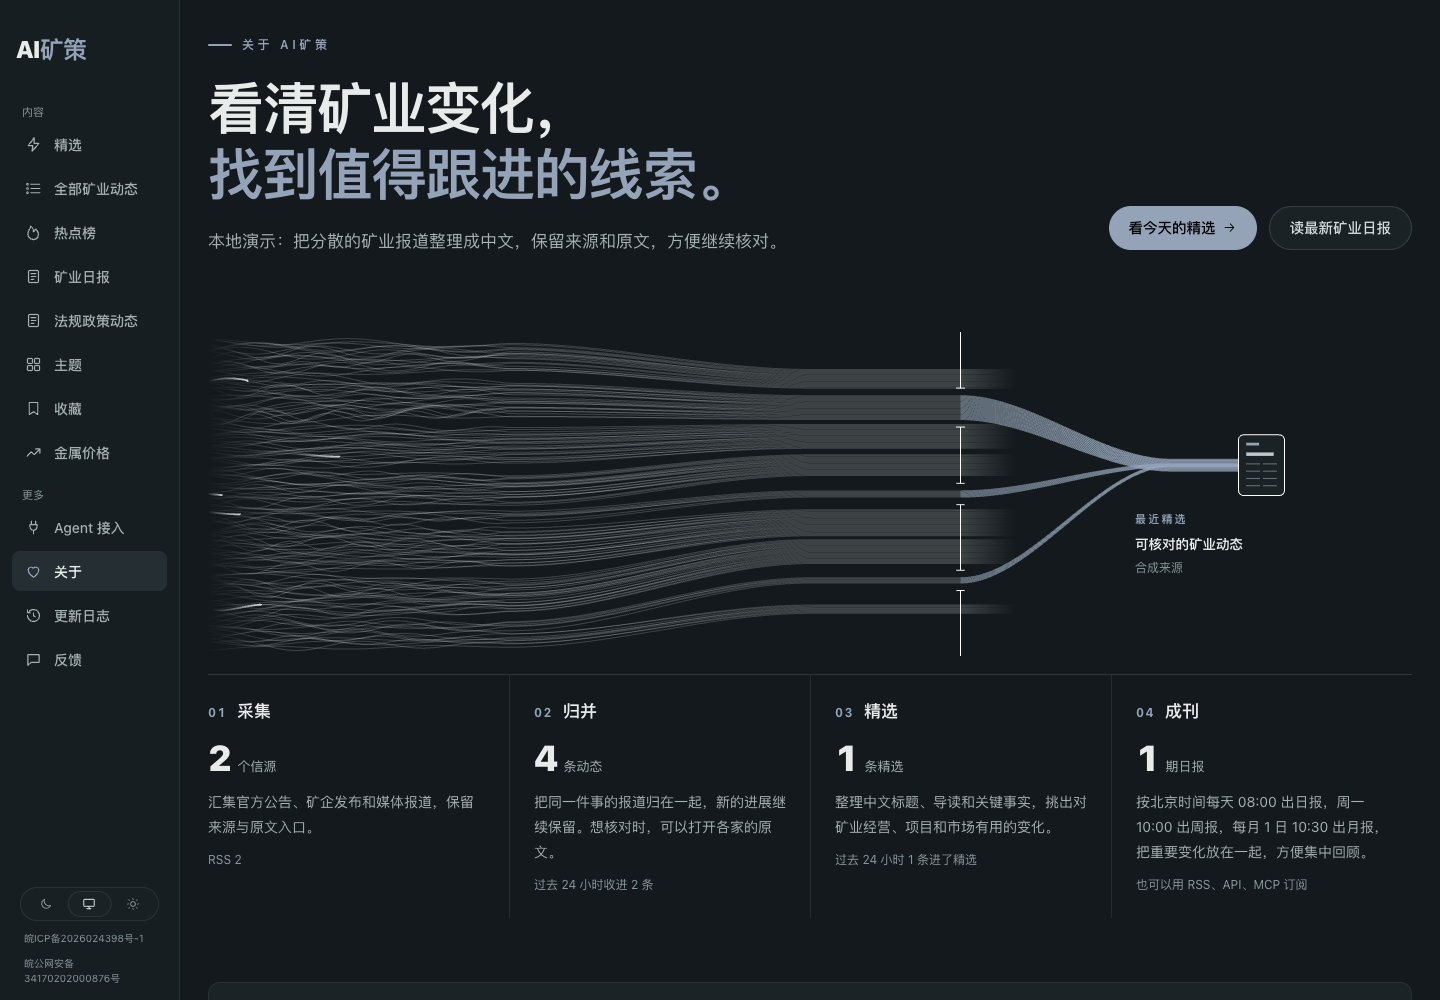
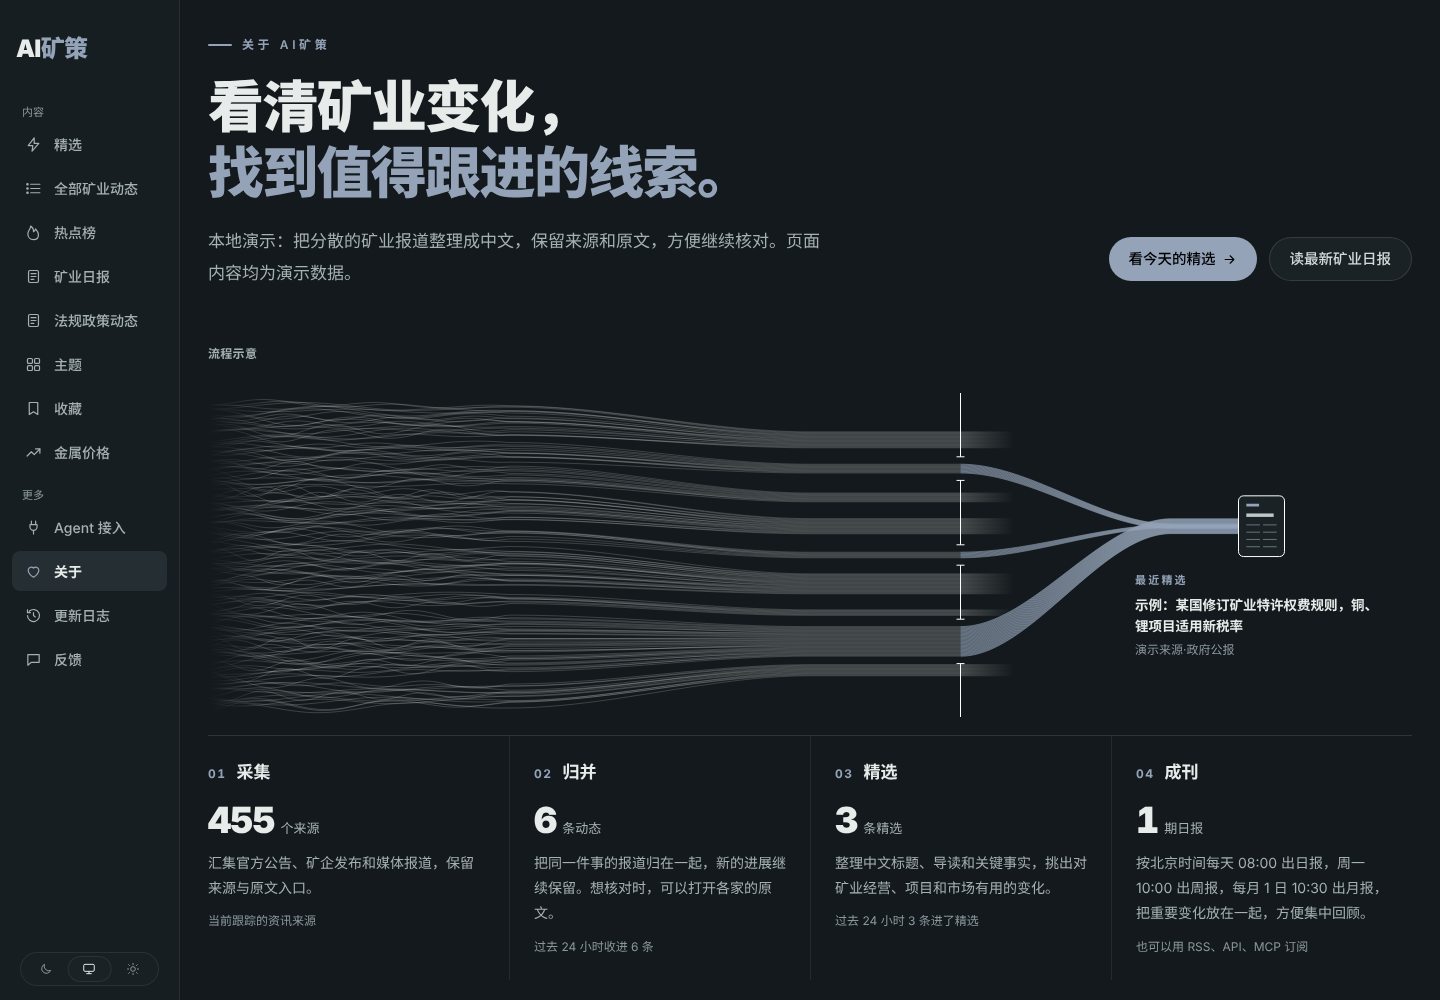
feat(e2e): local demo API and README screenshots without filing numbers
A loopback, read-only demo API serves contract-checked synthetic reader
data; e2e/demo-shots.ts screenshots the production build against it.
The four README screenshots are replaced so no filing number appears.

Claude-Session: https://claude.ai/code/session_0178JUuC66XVoXgDZzqL45iP

diff --git a/e2e/demo-reader.ts b/e2e/demo-reader.ts
@@ -1,0 +1,174 @@
+// Demo reader data for the local demo API (e2e/demo-api.ts): synthetic, labelled as demo content, and
+// parsed through the public contracts at import so any contract drift fails here first. No production data,
+// no real company or person, no filing numbers.
+import { ContentVersion, PoolResponse, SearchSuggestions, SiteInformation, SiteMeta, SiteStats, TimelineResponse } from "@amp/contracts/http/public";
+import { FIXED_TIME } from "./time.ts";
+
+const at = (minutesAgo: number) => new Date(Date.parse(FIXED_TIME) - minutesAgo * 60_000).toISOString();
+
+type Seed = {
+  id: string;
+  title: string;
+  summary: string;
+  reason: string | null;
+  source: string;
+  category: string;
+  tags: string[];
+  selected: boolean;
+  ago: number;
+};
+const SEEDS: Seed[] = [
+  {
+    id: "demo-royalty",
+    title: "示例：某国修订矿业特许权费规则，铜、锂项目适用新税率",
+    summary: "演示数据。新规按金属价格分档征收特许权费，已投产项目设两年过渡期，新项目自明年起适用。",
+    reason: "直接改变在产与在建项目的税费测算。",
+    source: "演示来源·政府公报",
+    category: "policy_regulation",
+    tags: ["铜", "锂"],
+    selected: true,
+    ago: 35,
+  },
+  {
+    id: "demo-brine",
+    title: "示例：南美一处锂盐湖项目完成扩产环评公示",
+    summary: "演示数据。扩产后碳酸锂产能计划翻倍，公示期内接受社区与机构意见。",
+    reason: "扩产节奏影响明后两年的供应预期。",
+    source: "演示来源·项目公告",
+    category: "company_project",
+    tags: ["锂"],
+    selected: true,
+    ago: 80,
+  },
+  {
+    id: "demo-copper-price",
+    title: "示例：铜价连续三周上涨，冶炼加工费降至年内低位",
+    summary: "演示数据。精矿供应偏紧叠加需求回暖，现货加工费继续下行。",
+    reason: null,
+    source: "演示来源·市场周报",
+    category: "commodity_market",
+    tags: ["铜"],
+    selected: false,
+    ago: 140,
+  },
+  {
+    id: "demo-export",
+    title: "示例：某国调整稀土中间品出口许可程序",
+    summary: "演示数据。新增最终用户声明要求，审批时限延长至四十五个工作日。",
+    reason: "出口审批变化牵动下游采购安排。",
+    source: "演示来源·商务部门",
+    category: "supply_trade_controls",
+    tags: ["稀土"],
+    selected: true,
+    ago: 210,
+  },
+  {
+    id: "demo-merger",
+    title: "示例：两家中型矿企宣布换股合并，组建多金属平台",
+    summary: "演示数据。合并后在三个国家持有在产矿山，交易尚需股东大会与监管批准。",
+    reason: null,
+    source: "演示来源·交易所公告",
+    category: "capital_ma",
+    tags: ["金", "铜"],
+    selected: false,
+    ago: 300,
+  },
+  {
+    id: "demo-safety",
+    title: "示例：一处地下金矿完成通风系统升级并恢复满负荷生产",
+    summary: "演示数据。停产检修历时六周，主管部门复查后准予恢复。",
+    reason: null,
+    source: "演示来源·安全监管",
+    category: "safety_incident",
+    tags: ["金"],
+    selected: false,
+    ago: 420,
+  },
+];
+
+const summary = (s: Seed) => ({
+  id: s.id,
+  title: s.title,
+  summary: s.summary,
+  reason: s.reason,
+  publishedAt: at(s.ago),
+  timelineAt: at(s.ago),
+  category: s.category,
+  tags: s.tags,
+  score: null,
+  selected: s.selected,
+  channel: "news" as const,
+  source: { name: s.source },
+});
+
+export const DEMO_ITEMS = SEEDS.map(summary);
+
+export const demoMeta = SiteMeta.parse({ changelogVersion: null, filings: { icp: null, publicSecurity: null, newsLicense: null } });
+export const demoContentVersion = ContentVersion.parse({ version: "demo-1", withdrawalVersion: "demo-1" });
+
+export function demoTimeline(filters: { channel: string; category: string | null }) {
+  const cards = DEMO_ITEMS.filter((item) => !filters.category || item.category === filters.category).map((item, index) => ({
+    key: item.id,
+    anchorAt: item.timelineAt,
+    item,
+    group:
+      index === 0 ? { factId: "demo-fact-royalty", story: null, additionalSourceCount: 2, reportCount: 3, developmentCount: 1, memberIds: [item.id] } : null,
+  }));
+  return TimelineResponse.parse({
+    filters: { channel: filters.channel, category: filters.category, tag: null, topic: null, jurisdiction: null },
+    cards,
+    nextCursor: null,
+    refreshAt: null,
+    hot: [
+      { rank: 1, title: "示例：特许权费新规引发多家矿企重估项目", heat: 92, trend: "up", storyPublicId: null, itemId: "demo-royalty" },
+      { rank: 2, title: "示例：锂盐湖扩产进入公示", heat: 71, trend: "new", storyPublicId: null, itemId: "demo-brine" },
+      { rank: 3, title: "示例：铜冶炼加工费降至年内低位", heat: 64, trend: "flat", storyPublicId: null, itemId: "demo-copper-price" },
+    ],
+    dayCounts: {},
+    generatedAt: FIXED_TIME,
+  });
+}
+
+export function demoPool(filters: { channel: string; category: string | null; q: string | null; tab: "time" | "relevance" }) {
+  const items = DEMO_ITEMS.filter((item) => !filters.category || item.category === filters.category);
+  return PoolResponse.parse({
+    filters: { channel: filters.channel, category: filters.category, tag: null, topic: null, q: filters.q, tab: filters.tab },
+    items,
+    page: 1,
+    pageCount: 1,
+    total: items.length,
+    todayCount: items.length,
+    freshness: FIXED_TIME,
+    generatedAt: FIXED_TIME,
+  });
+}
+
+export const demoStats = SiteStats.parse({
+  sources: 455,
+  sourceKinds: { web_list: 317, rss: 120, json_list: 18 },
+  heatOnlySources: 0,
+  items: DEMO_ITEMS.length,
+  selected: DEMO_ITEMS.filter((item) => item.selected).length,
+  dailies: 1,
+  day: { collected: DEMO_ITEMS.length, selected: 3 },
+  sampleSources: [
+    { name: "演示来源·政府公报", kind: "web_list", heatOnly: false },
+    { name: "演示来源·项目公告", kind: "rss", heatOnly: false },
+    { name: "演示来源·市场周报", kind: "json_list", heatOnly: false },
+  ],
+  latest: DEMO_ITEMS.slice(0, 3).map((item) => ({ id: item.id, title: item.title, source: item.source.name })),
+});
+
+export const demoInformation = SiteInformation.parse({
+  about: "本地演示：把分散的矿业报道整理成中文，保留来源和原文，方便继续核对。页面内容均为演示数据。",
+  contactEmail: null,
+  contactPage: null,
+  metalLinks: [],
+  revision: 1,
+  updatedAt: null,
+});
+
+export const demoSuggestions = SearchSuggestions.parse({
+  topics: [{ slug: "lithium", name: "锂", group: "field" }],
+  hot: [{ rank: 1, title: "示例：特许权费新规引发多家矿企重估项目", to: "/story/demo-royalty" }],
+});

diff --git a/e2e/demo-shots.ts b/e2e/demo-shots.ts
@@ -1,0 +1,77 @@
+// README screenshots from the real production web build and the local demo API (synthetic data, no filing numbers).
+//   npm run build --workspace @amp/web && node e2e/demo-shots.ts [outDir]
+// Default outDir: docs/assets/reader-preview. Desktop 1440×1000, phone 390×844, light/dark by colour-scheme preference.
+import { createServer } from "node:http";
+import { once } from "node:events";
+import { existsSync, mkdirSync } from "node:fs";
+import path from "node:path";
+import { chromium } from "@playwright/test";
+import { webEnvironment } from "../apps/web/runtime-env.ts";
+import { openLog, ROOT, start } from "../scripts/verify/lib.ts";
+import { stopSiteProcesses } from "../scripts/verify/site-processes.ts";
+import { browserExecutable } from "./browser.ts";
+import { startDemoReaderApi } from "./demo-api.ts";
+
+const SHOTS = [
+  { file: "reader-light.png", path: "/", viewport: { width: 1440, height: 1000 }, scheme: "light" },
+  { file: "reader-dark.png", path: "/", viewport: { width: 1440, height: 1000 }, scheme: "dark" },
+  { file: "reader-mobile.png", path: "/", viewport: { width: 390, height: 844 }, scheme: "light" },
+  { file: "about-flow-dark.png", path: "/about", viewport: { width: 1440, height: 1000 }, scheme: "dark" },
+] as const;
+
+async function freePort() {
+  const server = createServer();
+  server.listen(0, "127.0.0.1");
+  await once(server, "listening");
+  const { port } = server.address() as { port: number };
+  await new Promise<void>((resolve) => server.close(() => resolve()));
+  return port;
+}
+
+export async function takeDemoShots(outDir = path.join(ROOT, "docs/assets/reader-preview")) {
+  if (!existsSync(path.join(ROOT, "apps/web/build/public/server/index.js"))) throw new Error("Build the web first: npm run build --workspace @amp/web");
+  mkdirSync(outDir, { recursive: true });
+  const api = await startDemoReaderApi(await freePort());
+  const port = await freePort();
+  const origin = `http://127.0.0.1:${port}`;
+  const env = webEnvironment({
+    PATH: process.env.PATH,
+    NODE_ENV: "production",
+    WEB_HOST: "127.0.0.1",
+    WEB_PORT: String(port),
+    SITE_URL: origin,
+    PRIVATE_HOST: "127.0.0.1",
+    TRUST_PROXY: "false",
+    API_BASE_URL: api.url,
+  });
+  const web = start(process.execPath, ["--import", path.join(ROOT, "e2e/web-clock.ts"), "apps/web/server.ts"], {
+    env,
+    log: openLog(path.join(outDir, ".demo-web.log")),
+  });
+  const browser = await chromium.launch({ executablePath: browserExecutable() });
+  try {
+    for (
+      let i = 0;
+      !(await fetch(`${origin}/api/health`)
+        .then((r) => r.ok)
+        .catch(() => false));
+      i++
+    ) {
+      if (i > 100 || web.exitCode !== null) throw new Error("Production web did not become ready");
+      await new Promise((resolve) => setTimeout(resolve, 100));
+    }
+    for (const shot of SHOTS) {
+      const page = await browser.newPage({ viewport: shot.viewport, colorScheme: shot.scheme, reducedMotion: "reduce", locale: "zh-CN" });
+      await page.goto(origin + shot.path, { waitUntil: "networkidle" });
+      await page.screenshot({ path: path.join(outDir, shot.file) });
+      await page.close();
+    }
+  } finally {
+    await browser.close();
+    await stopSiteProcesses([web]);
+    await api.close();
+  }
+  return SHOTS.map((shot) => path.join(outDir, shot.file));
+}
+
+if (import.meta.main) console.log((await takeDemoShots(process.argv[2])).join("\n"));

diff --git a/e2e/demo-api.ts b/e2e/demo-api.ts
@@ -1,0 +1,68 @@
+// Local demo API for the reader site: serves the synthetic data in e2e/demo-reader.ts so the production web
+// build can be run, screenshotted and reviewed without a database, models or credentials. Read-only, loopback only.
+//
+//   node e2e/demo-api.ts            # http://127.0.0.1:3001
+//   DEMO_API_PORT=3101 node e2e/demo-api.ts
+import { createServer, type IncomingMessage, type ServerResponse } from "node:http";
+import { isCategoryKey, isChannelKey } from "@amp/contracts/taxonomy";
+import { demoContentVersion, demoInformation, demoMeta, demoPool, demoStats, demoSuggestions, demoTimeline, DEMO_ITEMS } from "./demo-reader.ts";
+
+function send(res: ServerResponse, status: number, body: unknown) {
+  res.statusCode = status;
+  res.setHeader("content-type", "application/json; charset=utf-8");
+  res.setHeader("cache-control", "no-store");
+  res.end(JSON.stringify(body));
+}
+
+/** Answers the public reader reads the demo pages need; everything else is a plain 404, never a write. */
+export function demoReaderApi(req: IncomingMessage, res: ServerResponse) {
+  const url = new URL(req.url ?? "/", "http://demo.invalid");
+  if (req.method !== "GET" && req.method !== "HEAD") return send(res, 405, { code: "read_only_demo" });
+  const q = url.searchParams;
+  const channel = q.get("channel"),
+    category = q.get("category");
+  const filters = { channel: isChannelKey(channel) ? channel : "all", category: isCategoryKey(category) ? category : null };
+  switch (url.pathname) {
+    case "/api/health":
+      return send(res, 200, { ok: true });
+    case "/api/site/meta":
+      return send(res, 200, demoMeta);
+    case "/api/site/content-version":
+      return send(res, 200, demoContentVersion);
+    case "/api/site/timeline":
+      return send(res, 200, demoTimeline(filters));
+    case "/api/site/pool":
+      return send(res, 200, demoPool({ ...filters, q: q.get("q"), tab: q.get("tab") === "relevance" ? "relevance" : "time" }));
+    case "/api/site/stats":
+      return send(res, 200, demoStats);
+    case "/api/site/information":
+      return send(res, 200, demoInformation);
+    case "/api/site/search/suggestions":
+      return send(res, 200, demoSuggestions);
+    case "/api/site/jurisdictions":
+      return send(res, 200, []);
+    case "/api/site/items/saved":
+      return send(res, 200, { items: DEMO_ITEMS.filter((item) => (q.get("ids") ?? "").split(",").includes(item.id)), unavailableIds: [] });
+  }
+  return send(res, 404, { code: "not_in_demo" });
+}
+
+export function startDemoReaderApi(port = Number(process.env.DEMO_API_PORT ?? 3001), host = "127.0.0.1") {
+  if (!["127.0.0.1", "::1", "localhost"].includes(host)) throw new Error("The demo API listens on loopback only");
+  const server = createServer(demoReaderApi);
+  return new Promise<{ url: string; close: () => Promise<void> }>((resolve, reject) => {
+    server.once("error", reject);
+    server.listen(port, host, () => {
+      const address = server.address() as { port: number };
+      resolve({
+        url: `http://${host}:${address.port}`,
+        close: () => new Promise((done) => server.close(() => done())),
+      });
+    });
+  });
+}
+
+if (import.meta.main) {
+  const { url } = await startDemoReaderApi();
+  console.log(`Demo reader API (synthetic data only) at ${url}`);
+}

diff --git a/tests/demo-reader-api.test.ts b/tests/demo-reader-api.test.ts
@@ -1,0 +1,18 @@
+// The local demo API serves contract-valid synthetic data, answers only reads, and shows no filing numbers.
+import assert from "node:assert/strict";
+import { test } from "node:test";
+import { schemas } from "@amp/contracts/http/public";
+import { startDemoReaderApi } from "../e2e/demo-api.ts";
+
+test("demo API answers the reader reads with contract-valid synthetic data and refuses writes", async (t) => {
+  const api = await startDemoReaderApi(0);
+  t.after(api.close);
+  const get = async (path: string) => (await fetch(api.url + path)).json();
+  assert.deepEqual(schemas.SiteMeta.parse(await get("/api/site/meta")).filings, { icp: null, publicSecurity: null, newsLicense: null });
+  const timeline = schemas.TimelineResponse.parse(await get("/api/site/timeline?category=policy_regulation"));
+  assert.ok(timeline.cards.length > 0 && timeline.cards.every((card) => card.item.category === "policy_regulation"));
+  schemas.PoolResponse.parse(await get("/api/site/pool"));
+  schemas.SiteStats.parse(await get("/api/site/stats"));
+  assert.equal((await fetch(`${api.url}/api/site/unknown`)).status, 404);
+  assert.equal((await fetch(`${api.url}/api/site/meta`, { method: "POST" })).status, 405);
+});

diff --git a/tasks/TASK-0509.md b/tasks/TASK-0509.md
@@ -1,0 +1,29 @@
+---
+id: TASK-0509
+wbs: T-0101
+lane: architect
+title: 本地演示 API 与 README 截图重截
+milestone: M3
+specs: [DEC-78]
+allowed_paths: [e2e/demo-api.ts, e2e/demo-reader.ts, e2e/demo-shots.ts, tests/demo-reader-api.test.ts, docs/assets/reader-preview/README.md, docs/assets/reader-preview/reader-light.png, docs/assets/reader-preview/reader-dark.png, docs/assets/reader-preview/reader-mobile.png, docs/assets/reader-preview/about-flow-dark.png, tasks/TASK-0509.md, tasks/INDEX.md]
+verify: [node --test tests/demo-reader-api.test.ts, npm run check]
+contracts: {change: none, files: []}
+base_sha: b30daad76301c39455a4055d280abd1cfe191380
+integration_owner: root
+budget: {model_calls: 0}
+status: locally_verified
+evidence: [docs/research/phase-two-brief-20261104.md]
+---
+
+任务书 v2 的 D1 项。内容如下：
+
+- **演示 API**（`e2e/demo-api.ts`）：只监听本机，只读；写入请求返回 405，未知地址返回 404。
+- **演示数据**（`e2e/demo-reader.ts`）：全部是合成数据，在导入时按公开契约校验；不含生产数据、真实公司和备案号。
+- **截图脚本**（`e2e/demo-shots.ts`）：用读者端的生产构建加演示 API，截取 README 用的四张图。原来的四张截图里有备案号，已全部替换。
+
+本卡没有改读者页面，也没有改契约和生产配置。后续读者端改版完成后，用同一个脚本重新截图。
+
+验证：
+- `tests/demo-reader-api.test.ts` 通过；
+- e2e 和 tests 两部分的类型检查通过；
+- 四张截图已逐张目视检查：全部是演示内容，侧栏没有备案号。

diff --git a/docs/assets/reader-preview/README.md b/docs/assets/reader-preview/README.md
@@ -1,5 +1,18 @@
 # 页面演示截图
 
-2026-10-17（America/Argentina/Catamarca）生成。使用当前生产构建的实际读者组件，数据来自专用本地只读演示接口；不是正式站截图或内容质量验收。桌面1440×1000、手机布局390×844，浅/深色均从页面外观控件切换。后台图片来自现有模型交互回归的合成表单，没有真实密钥、用户反馈或生产数据。
+由 `node e2e/demo-shots.ts` 生成：用读者端的生产构建，加上本地演示 API（`e2e/demo-api.ts`，数据在 `e2e/demo-reader.ts`）直接截图。演示数据全部是合成的，标有“示例”“演示数据”，不含生产数据、真实公司、密钥或备案号。
 
-前端代码检查点：d57b6d0505dd（之后的队列改动不改变页面）。原截图由Playwright浏览器直接保存，未用图片编辑或生成模型修饰页面。演示接口、截图原件及操作日志由TASK-0367保留在受控.verify资料中；最终线上验收另行记录。
+规格：
+- 桌面 1440×1000，手机 390×844；
+- 浅色和深色按系统外观偏好切换；
+- 动效按“减少动态效果”关闭；
+- 时钟固定为 `e2e/time.ts` 的时间。
+
+重新生成：
+
+```bash
+npm run build --workspace @amp/web
+node e2e/demo-shots.ts
+```
+
+`model-settings.png` 是后台模型表单的旧截图，来自合成表单，不在本脚本范围内。

diff --git a/tasks/INDEX.md b/tasks/INDEX.md
@@ -378,6 +378,7 @@
 | [TASK-0506](TASK-0506.md) | T-0101 | M3 | architect | locally_verified | 报道来源展开保留父列表搜索模式 | — |
 | [TASK-0507](TASK-0507.md) | T-0101 | M3 | architect | locally_verified | 复用报道比较的已付响应并纠正费用提醒 | — |
 | [TASK-0508](TASK-0508.md) | T-0101 | M3 | architect | locally_verified | 开源清理：备案号与许可证编号改为运行期配置 | — |
+| [TASK-0509](TASK-0509.md) | T-0101 | M3 | architect | locally_verified | 本地演示 API 与 README 截图重截 | — |
 | [TASK-0160](TASK-0160.md) | T-0101 | M3 | content | locally_verified | 隔离来源材料并保留原文恢复修订 | — |
 | [TASK-0172](TASK-0172.md) | T-0101 | M3 | content | locally_verified | 提供所有权明确的材料与关系证据读端口 | — |
 | [TASK-0161](TASK-0161.md) | T-0101 | M3 | gateway | locally_verified | 强制主模型许可核验 | — |
